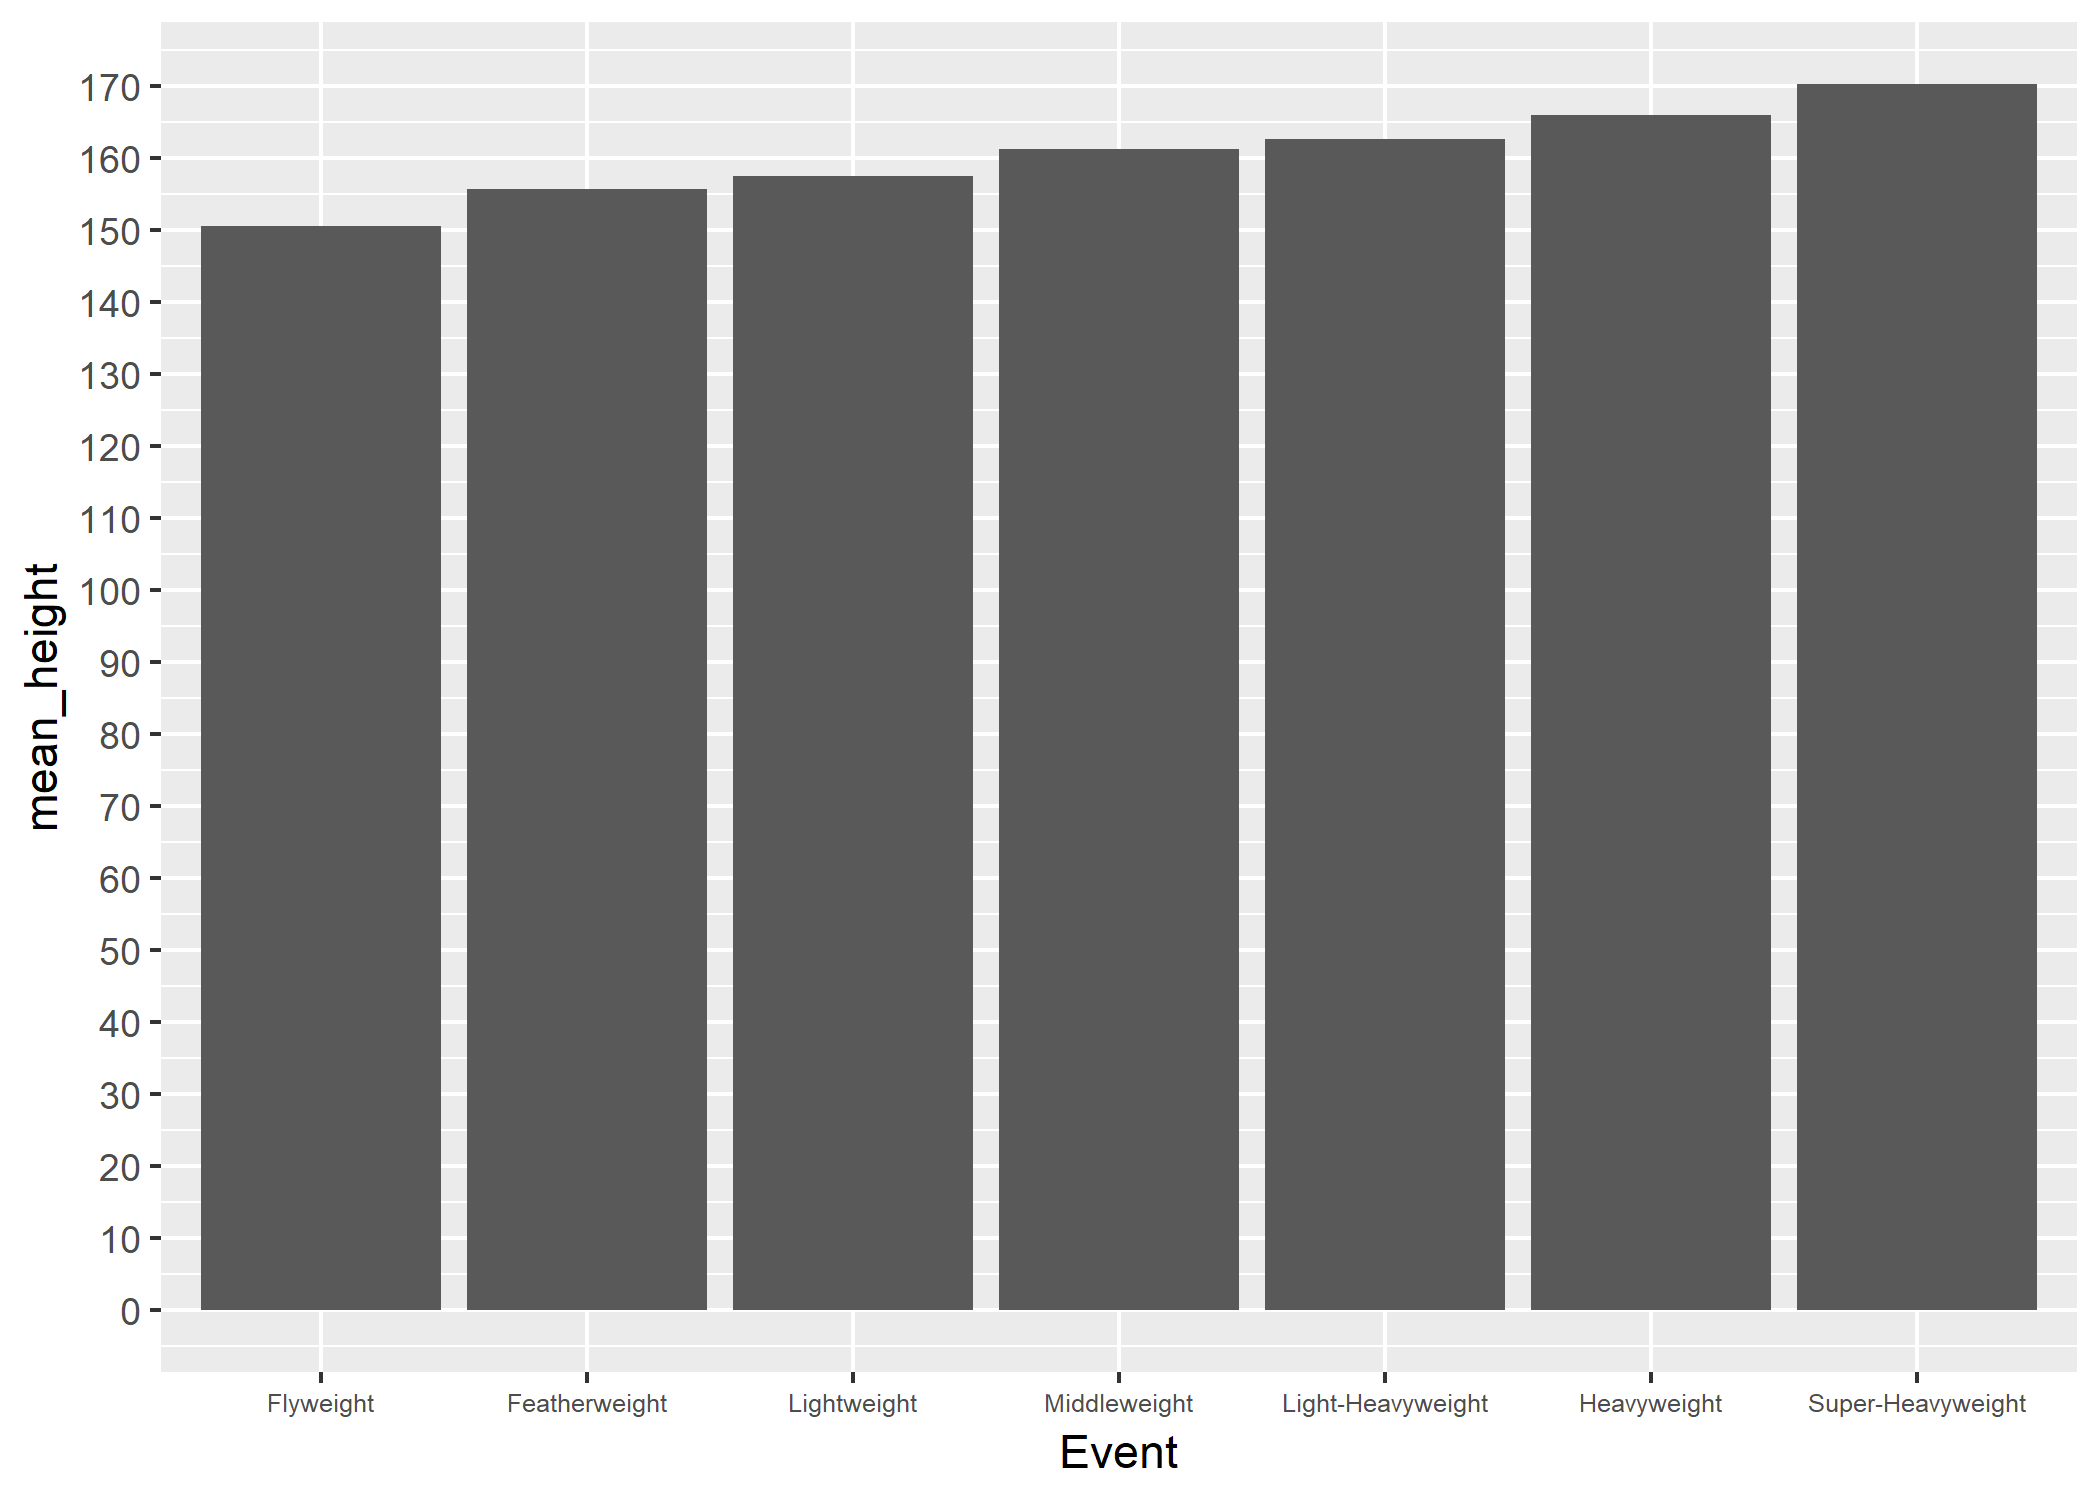
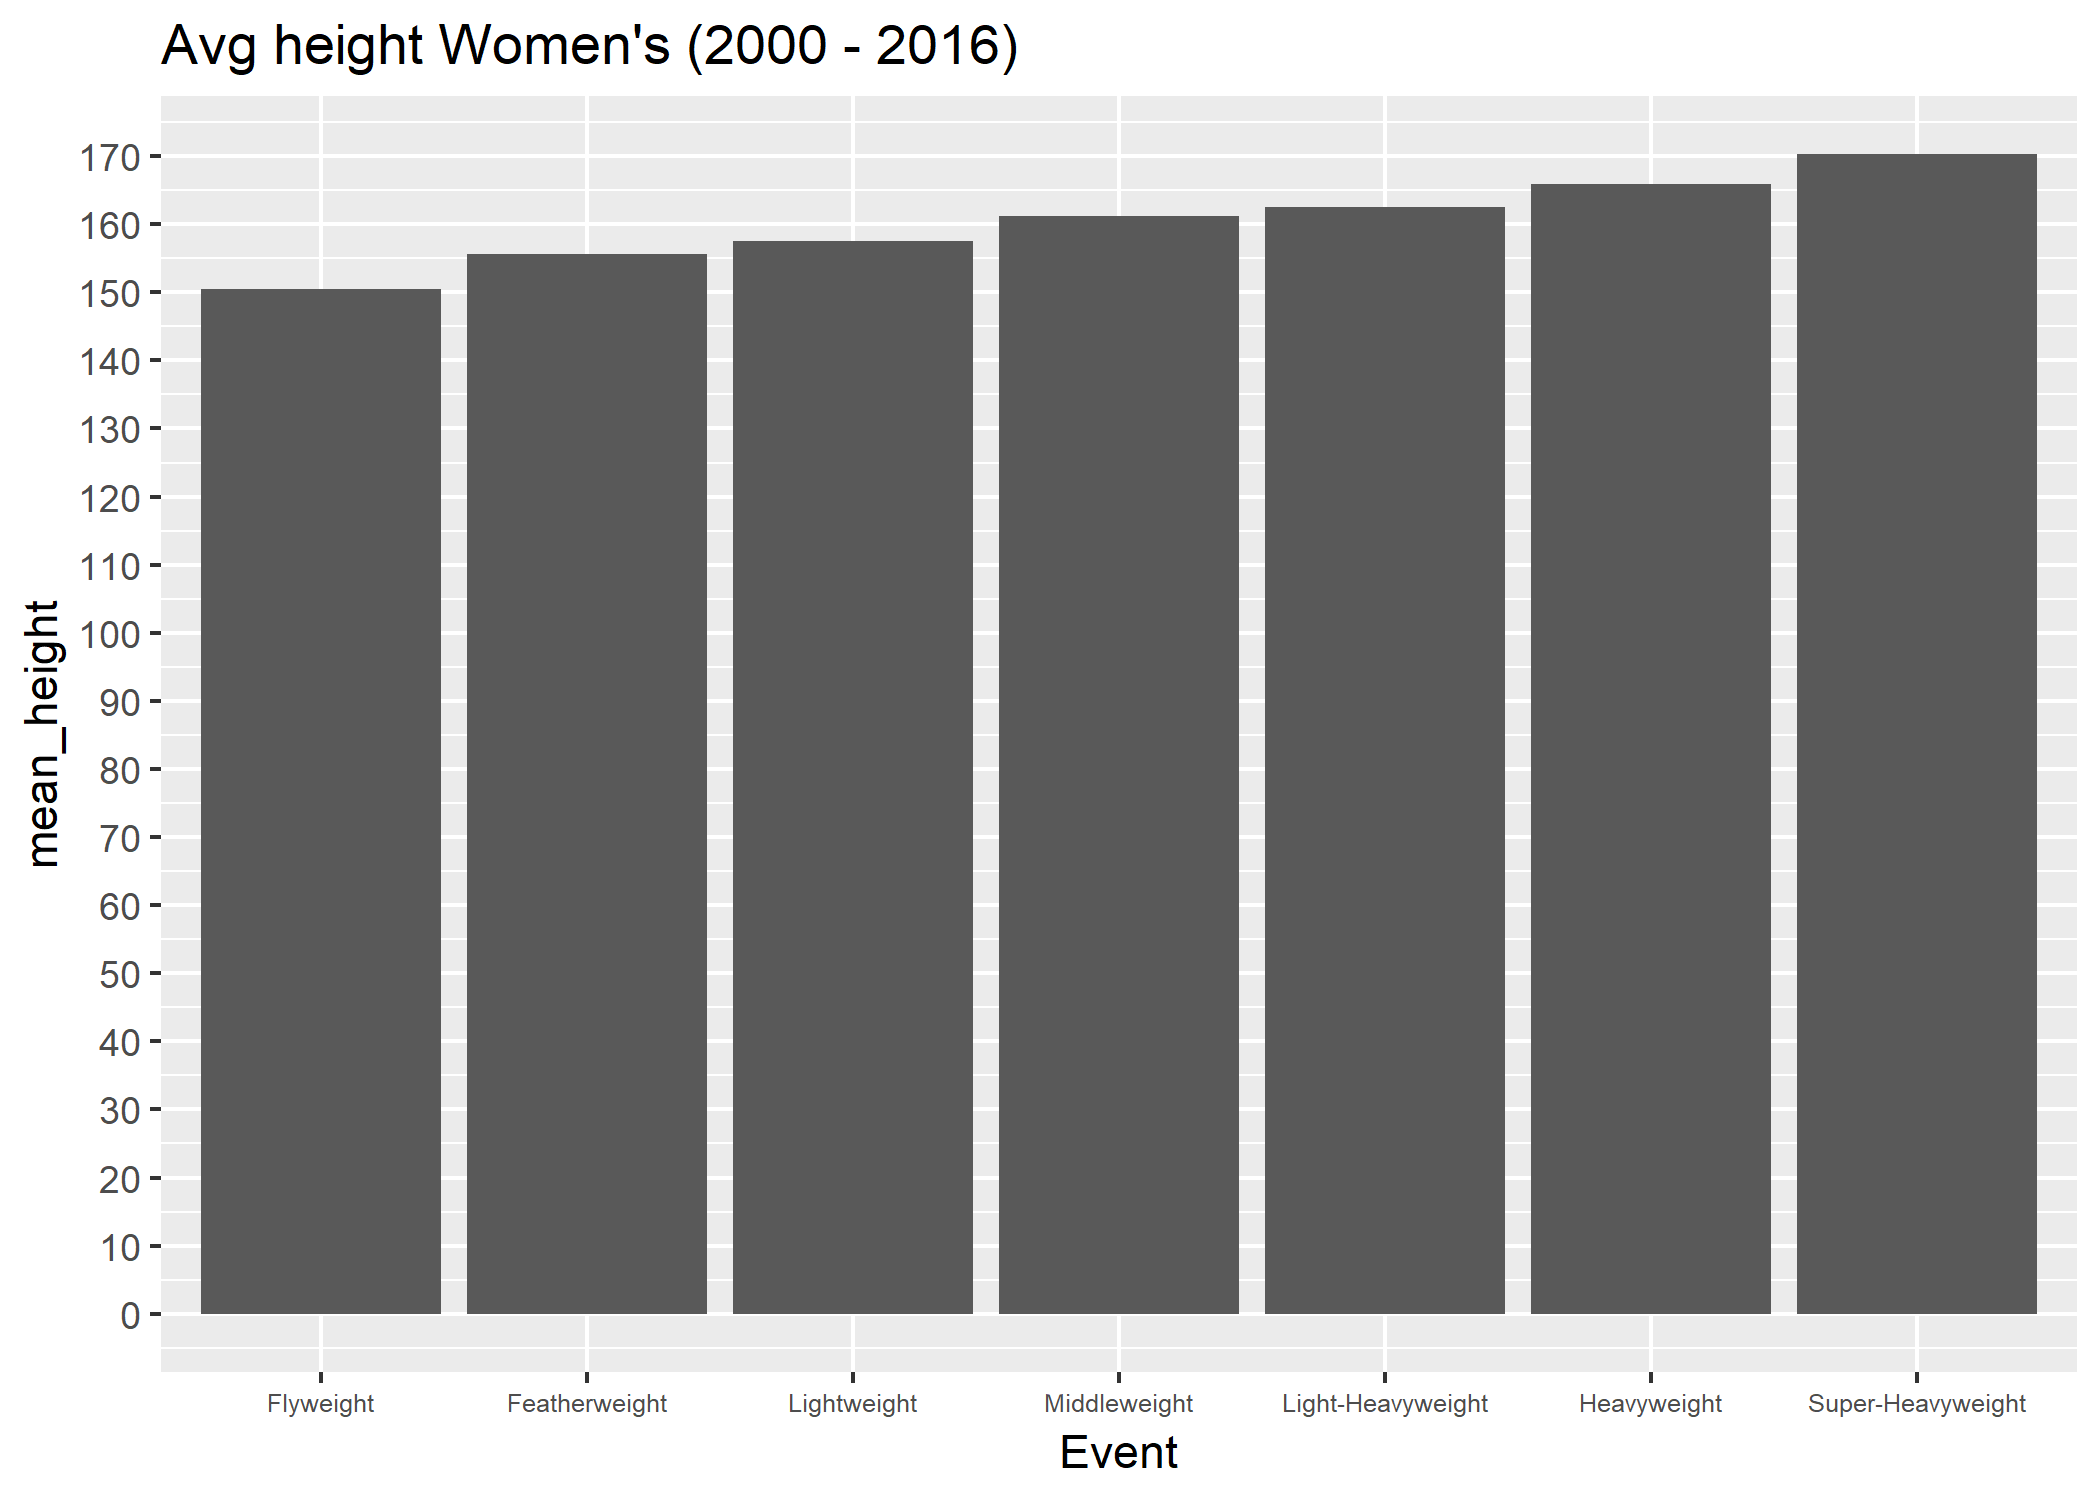
adjustments again

Changed region(s): [[0.0, 0.0307, 0.9905, 0.7973], [0.031, 0.0, 0.4952, 0.0613]]

diff --git a/weightlifting/olympic_weightlifting.md b/weightlifting/olympic_weightlifting.md
@@ -1257,6 +1257,7 @@ weightlifting %>%
   ggplot(aes(Event, mean_height)) +
   geom_col() +
   scale_y_continuous(breaks = seq(0, 190, 10)) +
+  labs(title = "Avg height Men's (2000 - 2016)") +
   theme(
     axis.text.x = element_text(size = 6)
   )
@@ -1285,6 +1286,7 @@ weightlifting %>%
   ggplot(aes(Event, mean_height)) +
   geom_col() +
   scale_y_continuous(breaks = seq(0, 190, 10)) +
+  labs(title = "Avg height Women's (2000 - 2016)") +
   theme(
     axis.text.x = element_text(size = 6)
   )
